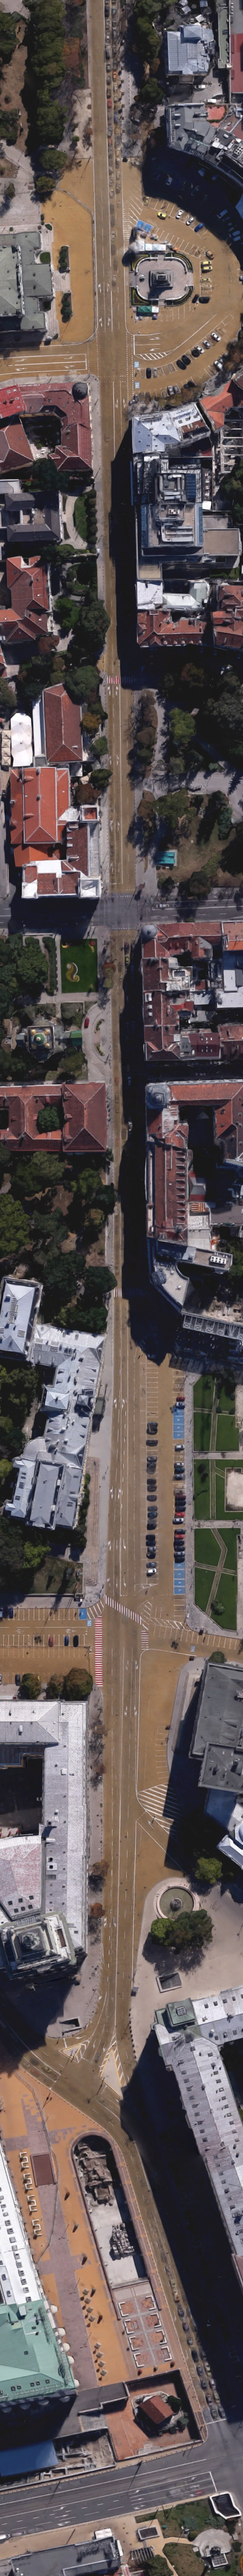
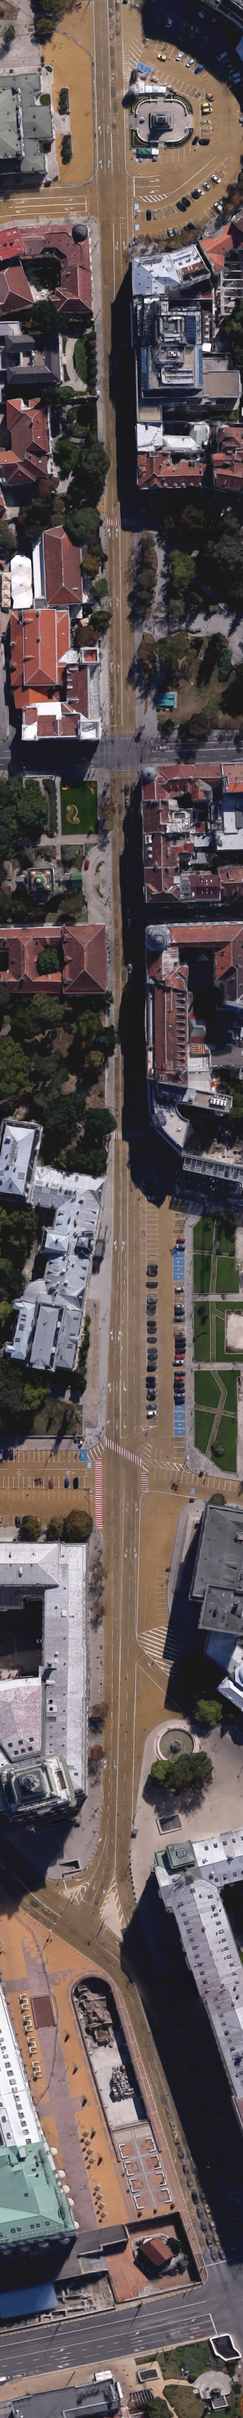
background cropped

diff --git a/levels.js b/levels.js
@@ -65,7 +65,7 @@ define(["framework/utils", "sprites/background", "sprites/player", "sprites/figh
 
 			that.game.addChild(new Background({
 				intialX: 0,
-				intialY: 5743,
+				intialY: 5354,
 				velocityY: -25,
 				imageFilename: "images/level1-background.jpg"
 			}));
